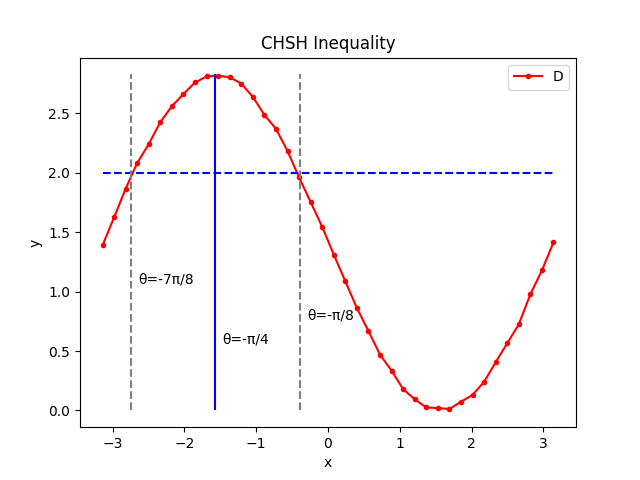
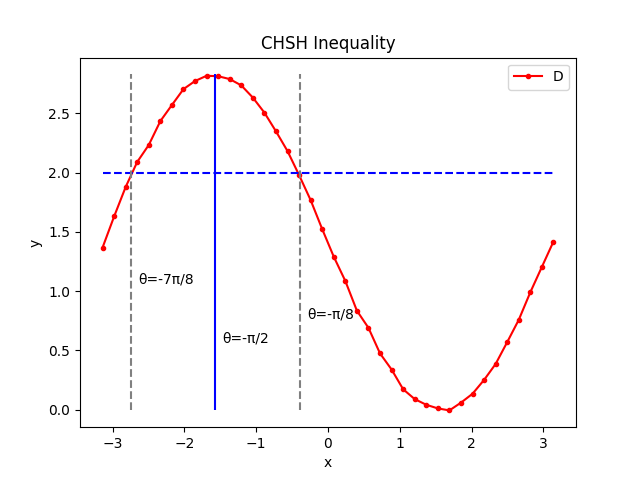
feat: update figures

diff --git a/chsh_inequality.py b/chsh_inequality.py
@@ -70,7 +70,7 @@ def main():
     plt.legend()
     plt.xlabel('x')
     plt.ylabel('y')
-    plt.text( -1/2*np.pi+0.1, 0.6, 'θ=-π/4', ha='left', va='center')
+    plt.text( -1/2*np.pi+0.1, 0.6, 'θ=-π/2', ha='left', va='center')
     plt.text( -7/8*np.pi+0.1, 1.1, 'θ=-7π/8', ha='left', va='center')
     plt.text( -1/8*np.pi+0.1, 0.8, 'θ=-π/8', ha='left', va='center')
     plt.title('CHSH Inequality')

diff --git a/README.md b/README.md
@@ -39,8 +39,10 @@ https://qiskit.org/
 
 ![](./figures/chsh_inequality.png)
 
-グラフをみると、θが$-7π/8$〜$-π/8$のあたりで2.0を超えていることが分かります。
+グラフをみると、θが -7π/8〜-π/8のあたりで2.0を超えていることが分かります。
 （古典論ではベルの不等式が成り立つため、それだけ相関が強くても2.0を超えることはあり得ない）
+
+なお、理論値はθが-π/2のときで、そのときの値は2√2です。図では青い線でθ=-π/2のところになります。
 
 # 解説
 
